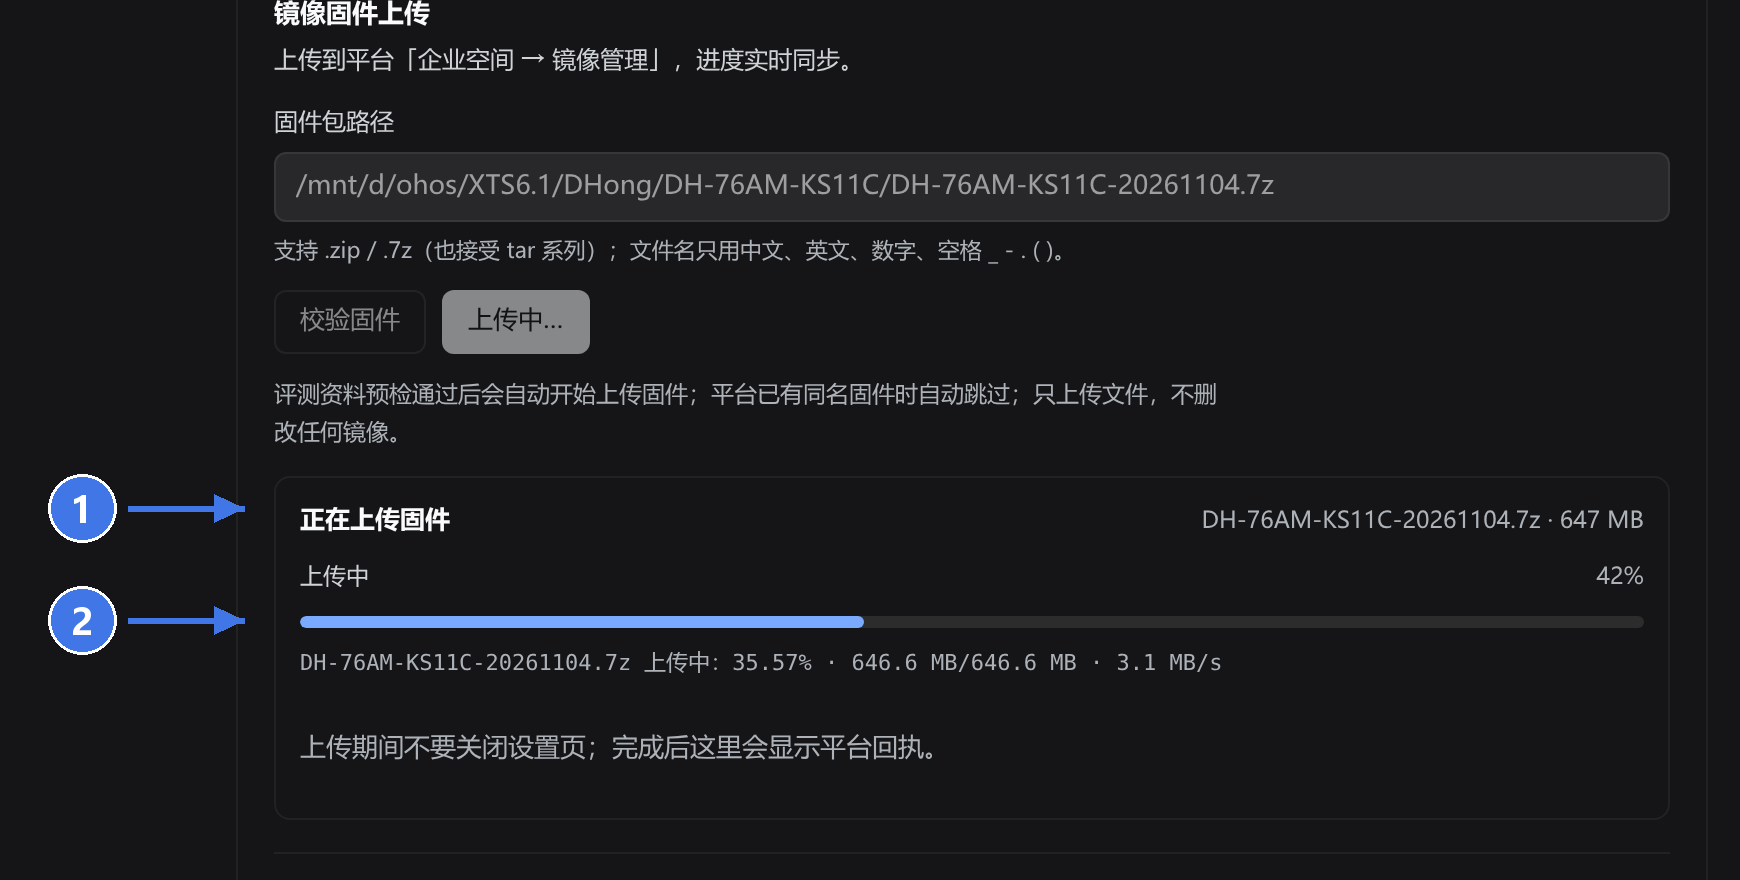
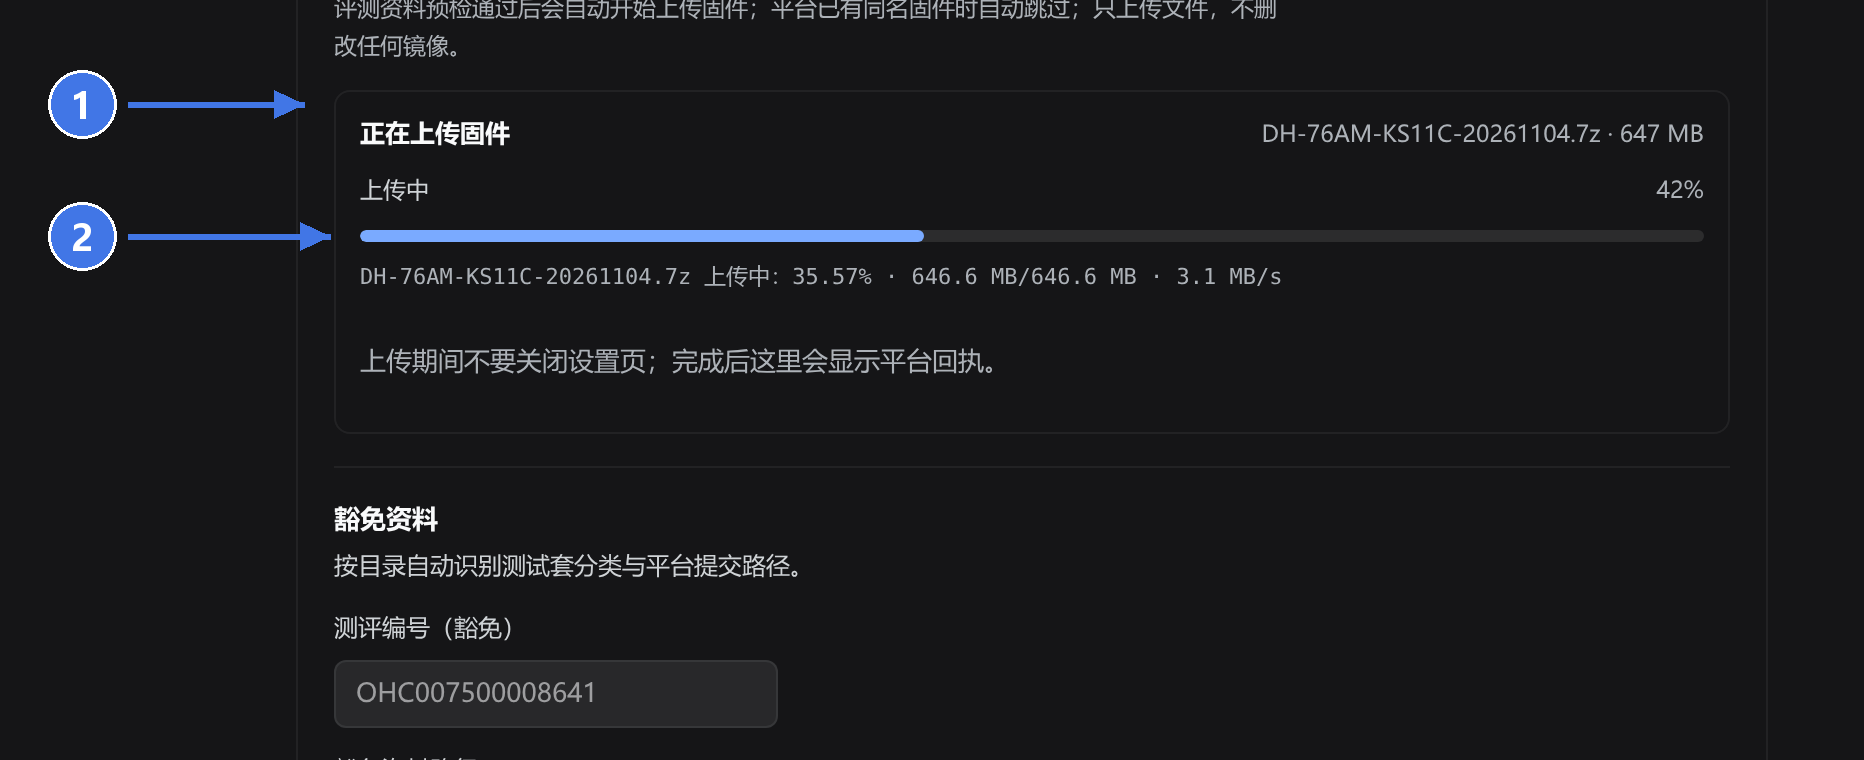
docs: 截图标注按真实元素坐标重做，箭头与高亮框对齐控件
- 用 measure_shot_boxes.mjs 取 getBoundingClientRect（CSS px × 2 = 截图像素）定位
- 01 指向设备目录输入框/提示行/预检按钮，03 第三条指到「续提交」提示行
- 04 镜像文件框坐标由红色边框像素检测得出，步骤箭头对齐第 5 步圆圈
- 02/05/06 同步按面板与进度条真实位置重算

diff --git a/docs/tools/annotate_shots.py b/docs/tools/annotate_shots.py
@@ -1,3 +1,10 @@
+"""给 README 截图加编号圆点 + 箭头 + 按钮高亮框。
+
+坐标不要靠眼睛量：先用 docs/tools/measure_shot_boxes.mjs 在渲染页里拿真实元素
+getBoundingClientRect()（CSS px），乘以 deviceScaleFactor=2 换成截图像素，再裁剪标注。
+箭头端点：tip_canvas_x = local_x + PAD - 14；local_x 是控件左缘相对裁剪框的像素。
+"""
+
 from PIL import Image, ImageDraw, ImageFont
 import math, os
 
